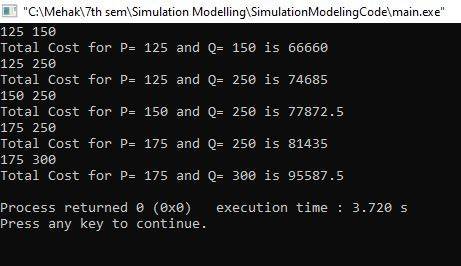
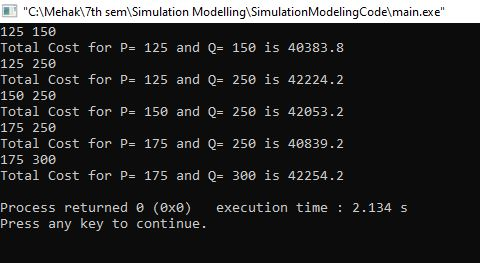
SecondProgram

Changed region(s): [[0.0, 0.0, 1.0, 0.6996], [0.0, 0.7605, 0.4555, 0.8821], [0.4555, 0.7605, 0.8807, 0.8213]]

diff --git a/2-TyreShopInventoryProblem/TyreShopInventoryProblem.cpp b/2-TyreShopInventoryProblem/TyreShopInventoryProblem.cpp
@@ -1,15 +1,7 @@
 #include <bits/stdc++.h>
 #include <stdlib.h>
-#include <time.h>
 using namespace std;
 
-int generate_demand()
-{
-    //initialize random seed
-    srand(time(NULL));
-    //generate random number between 0 to 99
-    return rand() % 100;
-}
 int main()
 {
     int P, Q, stock, today, dueDate, unitsDue, startDate, demand, reorderCost;
@@ -19,13 +11,15 @@ int main()
     for(int i=0;i<5;i++)
     {
         cin>>P>>Q; //125 150
+        //initialize random seed for constant random values
+        srand(0);
 
         //All the initializations
         startDate = 1;
-        dueDate = 0; //startDate+3;
+        dueDate = 0;
         today = startDate;
         unitsDue = 0;
-        reorderCost = 10; //not given
+        reorderCost = 2; //not given
         stock = 115;
         total_cost=0;
 
@@ -38,7 +32,7 @@ int main()
                 unitsDue=0;
             }
             //Today's demand of orders
-            demand = generate_demand();
+            demand = rand() % 100;
 
             //If demand less than stock, add carrying cost
             if(demand<=stock)
@@ -63,7 +57,6 @@ int main()
         }
 
         cout<<"Total Cost for P= "<<P<<" and Q= "<<Q<<" is "<<total_cost<<"\n";
-
     }
     return 0;
 }
@@ -74,4 +67,19 @@ Input values for P and Q:
 150 250
 175 250
 175 300
+
+Output:
+125 150
+Total Cost for P= 125 and Q= 150 is 40383.8
+125 250
+Total Cost for P= 125 and Q= 250 is 42224.2
+150 250
+Total Cost for P= 150 and Q= 250 is 42053.2
+175 250
+Total Cost for P= 175 and Q= 250 is 40839.2
+175 300
+Total Cost for P= 175 and Q= 300 is 42254.2
+
+For reorder cost=2, minimum cost is for P= 125 and Q= 150.
+As reorder cost increases, more Q will have more cost.
 */
